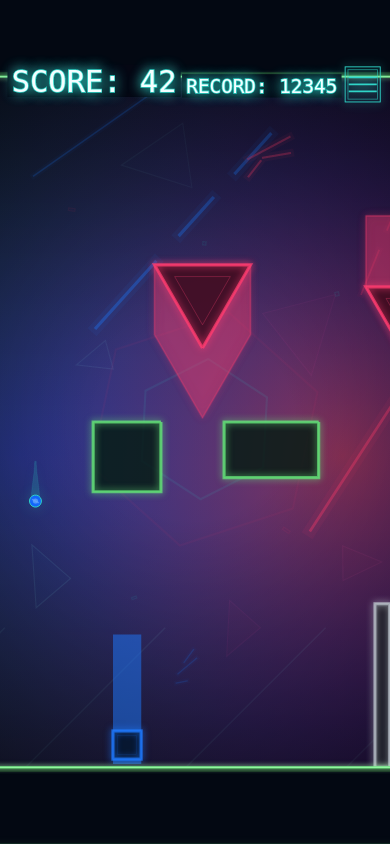
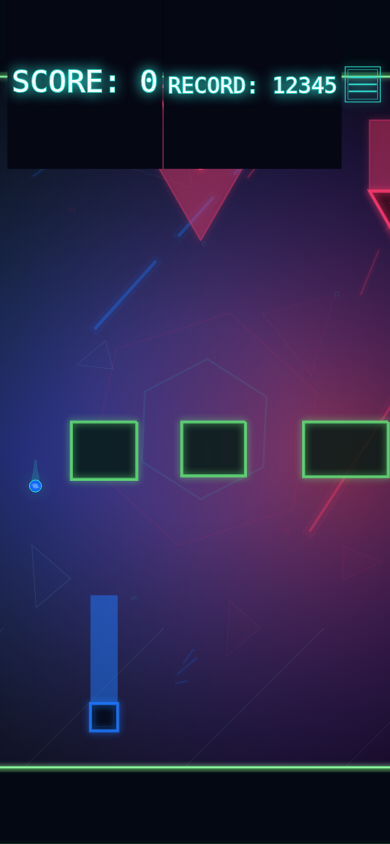
TASK-076: protect bad record HUD text

diff --git a/sprites/scoretext.js b/sprites/scoretext.js
@@ -100,6 +100,7 @@ let scoreText =
         ctx.textBaseline = 'middle'
         const metrics = ctx.measureText(text)
         const padding = viewHeight * STYLE.ui.hudBadTextBackingPaddingRatio
+        const bandHeight = viewHeight * STYLE.ui.badCeilingBandRatio
         const ascent = metrics.actualBoundingBoxAscent || fontSize * 0.72
         const descent = metrics.actualBoundingBoxDescent || fontSize * 0.28
         const textWidth = metrics.width
@@ -110,17 +111,17 @@ let scoreText =
         else if (align == 'end')
             left -= textWidth
 
-        const top = y - ascent
-        const height = ascent + descent
+        const top = Math.min(0, y - ascent - padding)
+        const height = Math.max(bandHeight, y + descent + padding - top)
 
         ctx.shadowBlur = 0
         ctx.globalAlpha = 1
         ctx.fillStyle = STYLE.colors.background.gradientTop
         ctx.fillRect(
             left - padding,
-            top - padding,
+            top,
             textWidth + padding * 2,
-            height + padding * 2
+            height
         )
         ctx.restore()
     },

diff --git a/progress.md b/progress.md
@@ -140,3 +140,4 @@ TASK-081: Added a classic-only inset neon shell to the ceiling band, verified sc
 TASK-076: Added bad-version HUD text backing behind score/record text so gameplay objects cannot visually overlap RECORD; refreshed five phone screenshots and confirmed record centering, score/menu clearance, classic placement, no console errors, and valid JSON. Gotcha: backing padding is intentionally tight to preserve narrow-phone HUD spacing.
 TASK-082: Added the classic floor inset shell/border treatment to match other obstacles, verified browser startup/classic floor screenshot/no console errors/valid JSON, and saved screenshots/TASK-082.png. Gotcha: screenshot is ignored by default, so TASK-082.png must be force-added.
 TASK-075: Refreshed five portrait bad-version score screenshots, confirmed score centerY matches the ceiling-band center with no record/menu overlap and classic score placement unchanged. Gotcha: geometric probes may count objects behind the opaque HUD backing, so verify visual overlap from screenshots/draw order.
+TASK-076: Extended bad-version HUD backing to the full ceiling-band height behind score/record clusters; verified five phone screenshots, record center/gaps, classic placement, filtered console/page errors, and valid JSON. Gotcha: the local static server still emits a favicon 404, ignored as unrelated resource noise.
